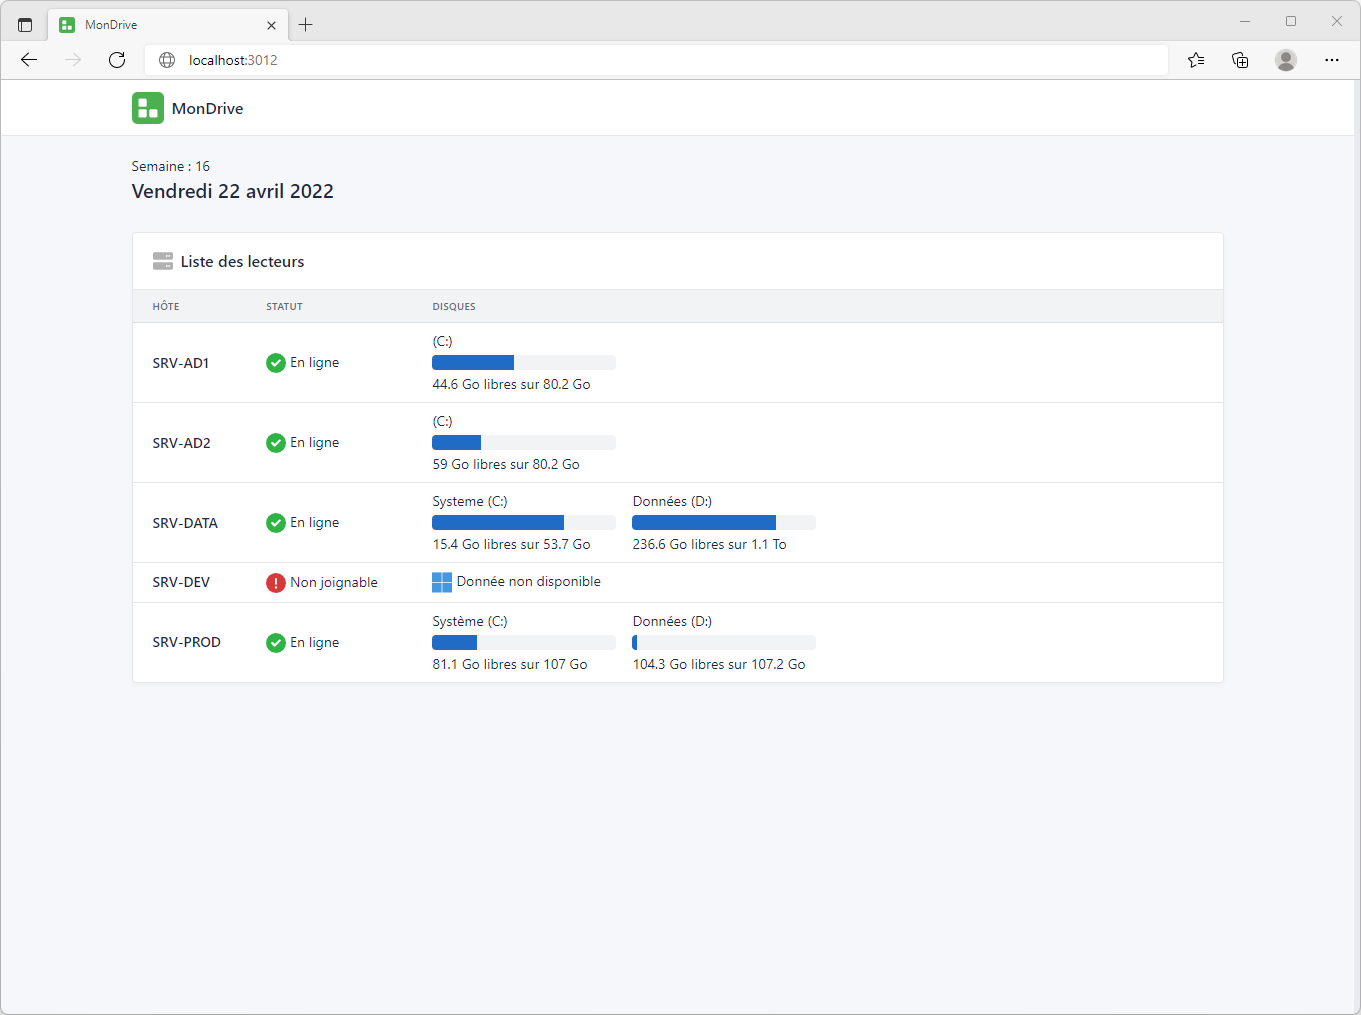
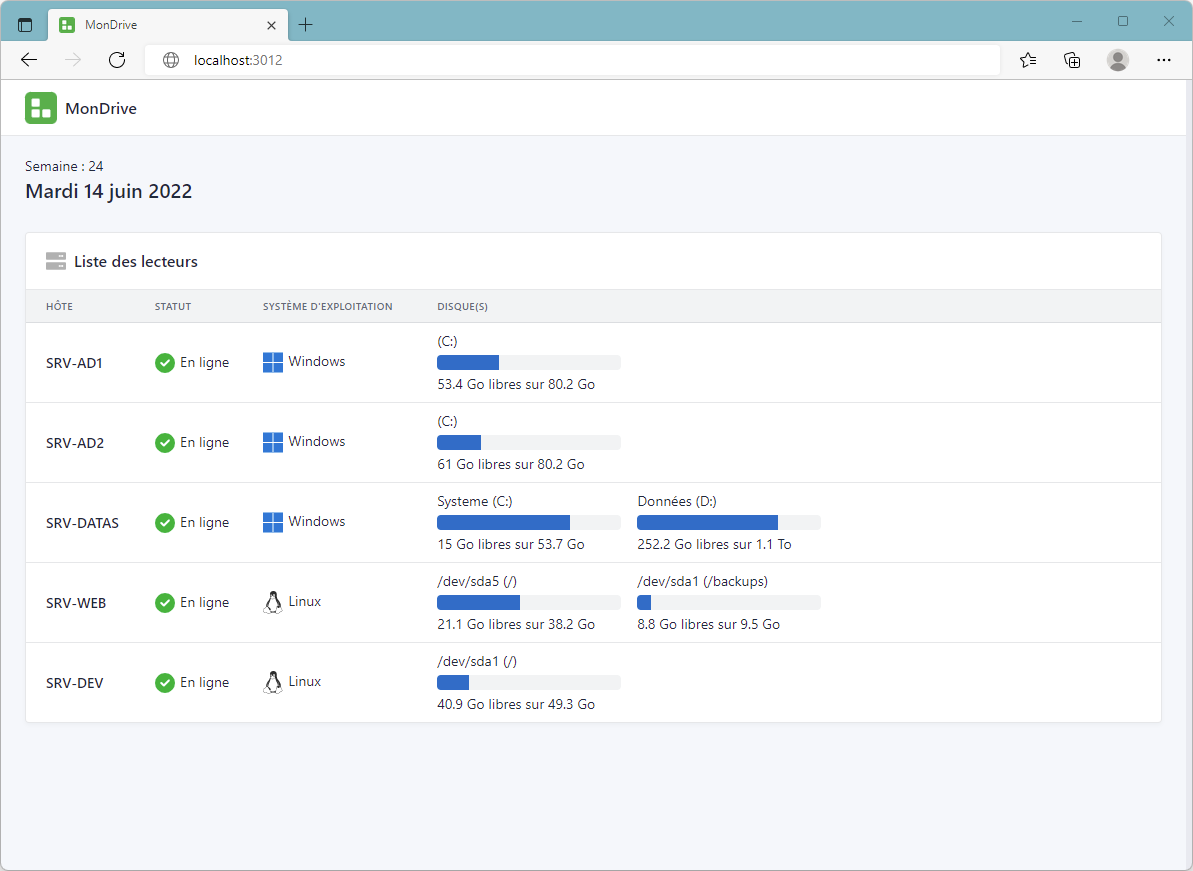
up

diff --git a/src/components/DiskList.vue b/src/components/DiskList.vue
@@ -22,11 +22,7 @@
           </tr>
         </thead>
         <tbody>
-          <tr
-            v-for="(item, index) in items"
-            :key="index"
-            v-show="item[2].val.includes('ok')"
-          >
+          <tr v-for="(item, index) in items" :key="index">
             <!-- Hôte -->
             <td>
               <b> {{ index }} </b>
@@ -50,24 +46,14 @@
                 <IconWindows />
                 Windows
               </span>
-              <!--               <span v-if="item[1].val.includes('Linux')">
-                <IconLinux />
-                Linux
-              </span> -->
               <span v-else>
                 <IconLinux />
                 Linux
-                <!-- <IconWarning /> -->
               </span>
             </td>
-            <!--             <td v-else>
-              <span v-if="item[0].val.includes('off')"></span>
-              <span v-else>
-                <IconWarning />
-                Version non supportée
-              </span>
-            </td>
- -->
+
+            <td v-if="item[0].val.includes('off')"></td>
+
             <!-- Liste des disques -->
             <td v-if="item[0].val.includes('on') && item[2].val.includes('ok')">
               <div class="row" v-for="n in 1" :key="n">
@@ -112,7 +98,10 @@
                 </div>
               </div>
             </td>
-            <td v-else></td>
+            <td v-else>
+              <IconWarning />
+              Donnée non disponible
+            </td>
           </tr>
         </tbody>
       </table>
@@ -123,7 +112,7 @@
 <script>
 import IconDanger from "./icons/IconDanger.vue";
 import IconSuccess from "./icons/IconSuccess.vue";
-//import IconWarning from "./icons/IconWarning.vue";
+import IconWarning from "./icons/IconWarning.vue";
 
 import IconWindows from "./icons/IconWindows.vue";
 import IconLinux from "./icons/IconLinux.vue";
@@ -133,7 +122,7 @@ export default {
   components: {
     IconDanger,
     IconSuccess,
-    //IconWarning,
+    IconWarning,
     IconWindows,
     IconLinux,
   },

diff --git a/src/components/Header.vue b/src/components/Header.vue
@@ -6,23 +6,6 @@
           <div>{{ "Semaine : " + weekNumber }}</div>
           <h2>{{ fullDate }}</h2>
         </div>
-        <!-- Début : Erreur -->
-        <div
-          class="col-12 col-md-auto ms-auto d-print-none"
-          v-for="(item, index) in items"
-          :key="index"
-          v-show="item[2].val.includes('ko')"
-        >
-          <div class="alert alert-danger" role="alert">
-            <h4 class="alert-title">Donnée non disponible</h4>
-            <div class="text-muted">
-              <div class="list-group list-group-flush">
-                {{ "Serveur : " + index }}
-              </div>
-            </div>
-          </div>
-        </div>
-        <!-- Fin : Erreur -->
       </div>
     </div>
   </div>
@@ -37,8 +20,6 @@ export default {
     weekNumber: "",
     fullDate: "",
   }),
-
-  props: ["items"],
 
   methods: {
     DateTime,

diff --git a/src/App.vue b/src/App.vue
@@ -21,7 +21,7 @@
       >
         <section slot="pdf-content">
           <div class="page-wrapper">
-            <Header :items="items" />
+            <Header />
             <div class="page-body">
               <div class="container-xl">
                 <div class="row row-deck row-cards">
@@ -70,7 +70,7 @@ export default {
       .get("data.json")
       .then((response) => {
         this.items = response.data.info;
-        this.$refs.html2Pdf.generatePdf();
+        //this.$refs.html2Pdf.generatePdf();
       })
       .catch((error) => {
         console.log(error);

diff --git a/README.md b/README.md
@@ -41,10 +41,10 @@ root@SRV-4 22 motDePasse
 
 Valider une première fois les clés SSH pour chaques serveurs Linux
 ```powershell
-#C:\Exploitation\MonDrive
+cd C:\Exploitation\MonDrive
 
-pkink -ssh root@SRV-3 22
-pkink -ssh root@SRV-7 22
+.\pkink.exe -ssh root@SRV-3 22
+.\pkink.exe -ssh root@SRV-7 22
 ```
 
 ## Exécution

diff --git a/CHANGELOG.md b/CHANGELOG.md
@@ -3,7 +3,6 @@
 ### [1.3] - 13/06/2022
 
 - [ **➕** ] Ajout de la gestion des disques sous Linux
-- [ **🔧** ] Correction de la gestion des erreurs
 
 ---
 
